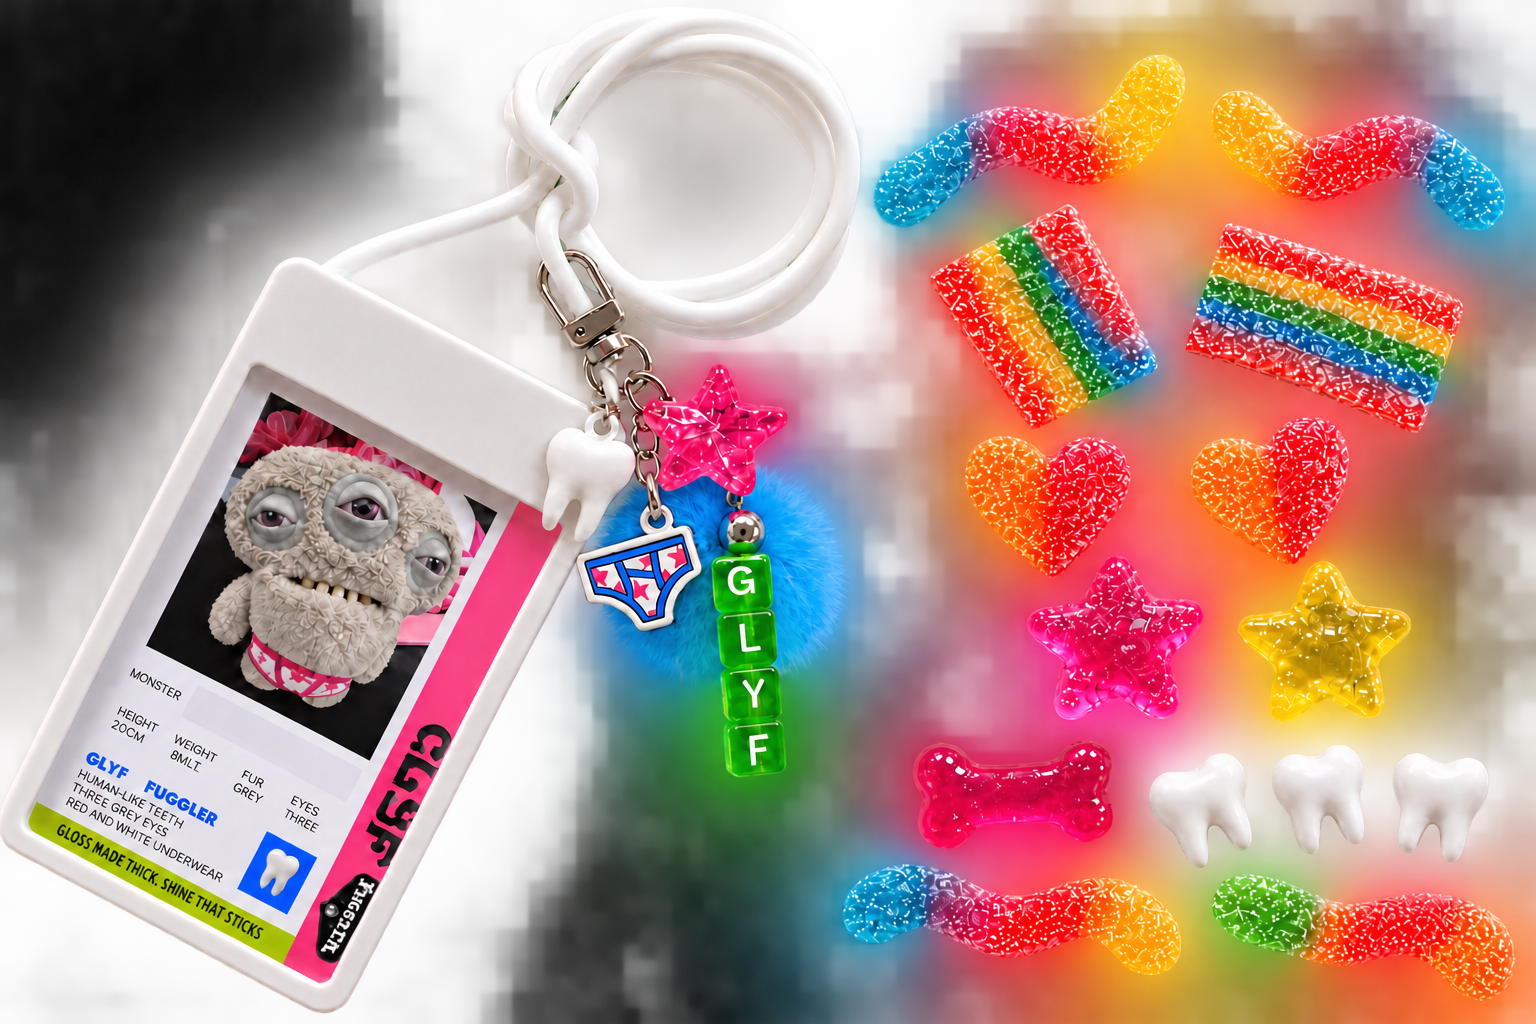
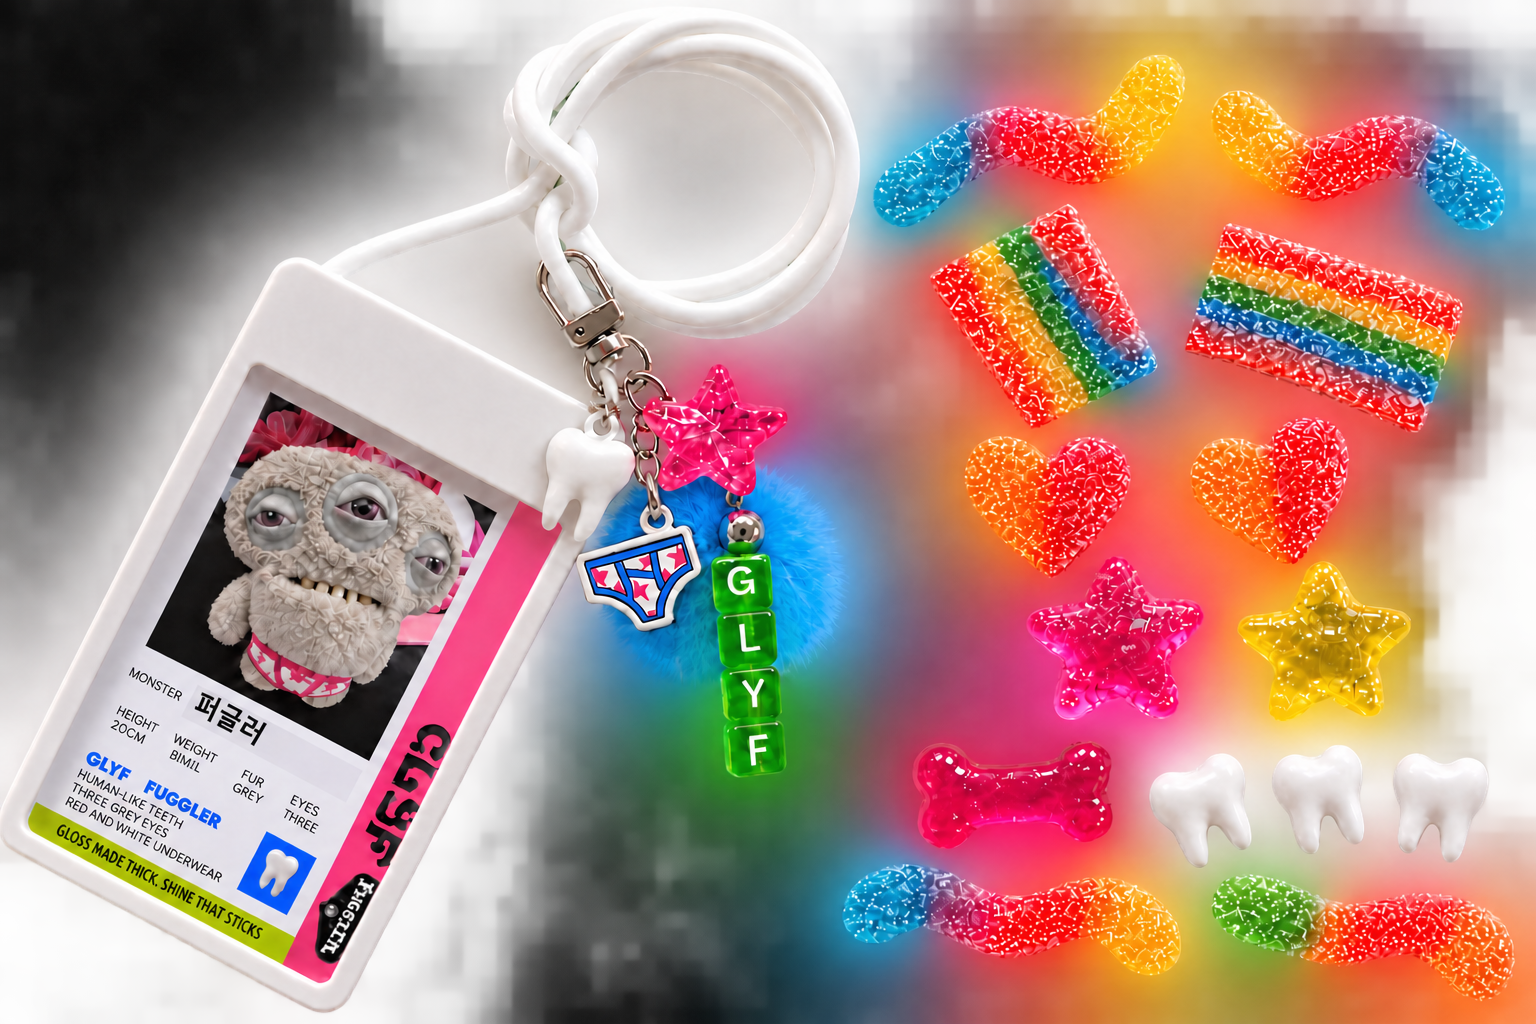
Apply reference badge artwork and update its image source

diff --git a/src/badge-viewer.ts b/src/badge-viewer.ts
@@ -8,7 +8,7 @@ export function createBadgeViewer(app: HTMLElement) {
   const dialog = document.createElement('dialog')
   dialog.className = 'badge-viewer'; dialog.setAttribute('aria-label', 'GLYF 사원증 확대 보기')
   const image = document.createElement('img')
-  image.className = 'badge-viewer-image'; image.alt = '세 눈 캐릭터의 GLYF 사원증, 흰 목줄과 참 장식'
+  image.className = 'badge-viewer-image'; image.alt = 'MONSTER 퍼글러. HEIGHT 20CM. WEIGHT BIMIL. FUR GREY. EYES THREE. GLYF FUGGLER. HUMAN-LIKE TEETH. THREE GREY EYES. RED AND WHITE UNDERWEAR. GLOSS MADE THICK. SHINE THAT STICKS.'
   const close = document.createElement('button')
   close.className = 'badge-close'; close.type = 'button'; close.textContent = '✕'
   close.setAttribute('aria-label', '사원증 닫기')

diff --git a/src/badge-candies.ts b/src/badge-candies.ts
@@ -1,7 +1,7 @@
 import * as THREE from 'three'
 import { createBadgeViewer } from './badge-viewer'
 import cutoutsUrl from './assets/badge-candies.png'
-import badgeUrl from './assets/badge-nameless.png'
+import badgeUrl from './assets/badge-reference.png'
 
 type Crop = readonly [number, number, number, number]
 type Outline = ReadonlyArray<readonly [number, number]>
